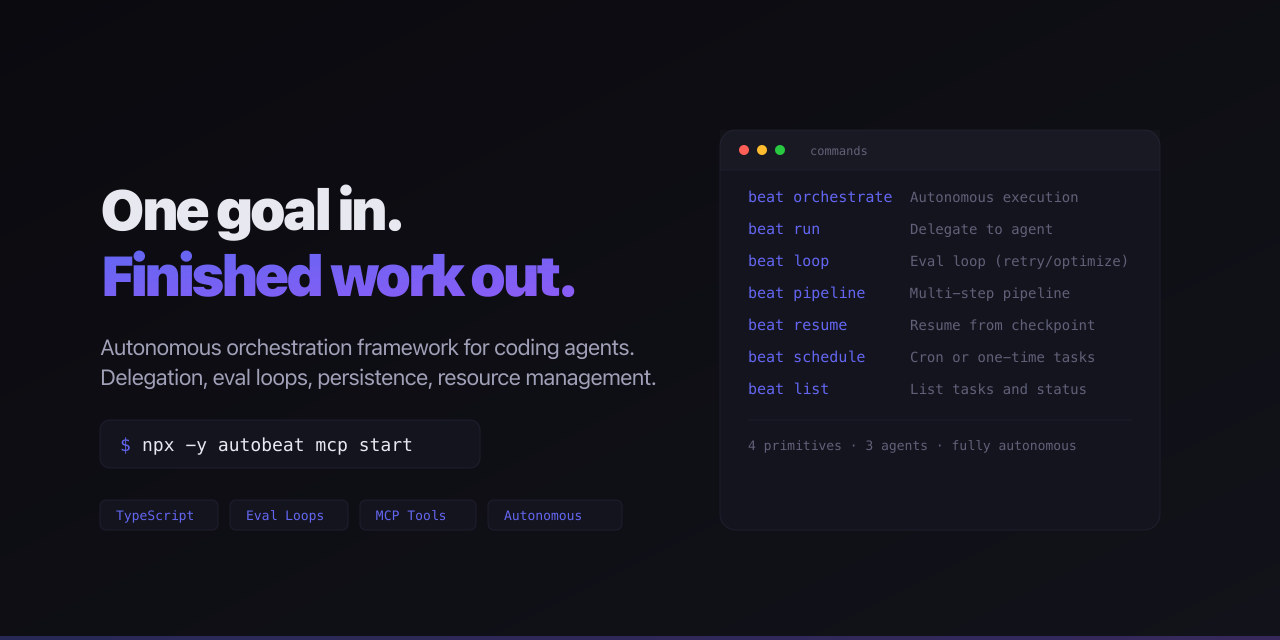
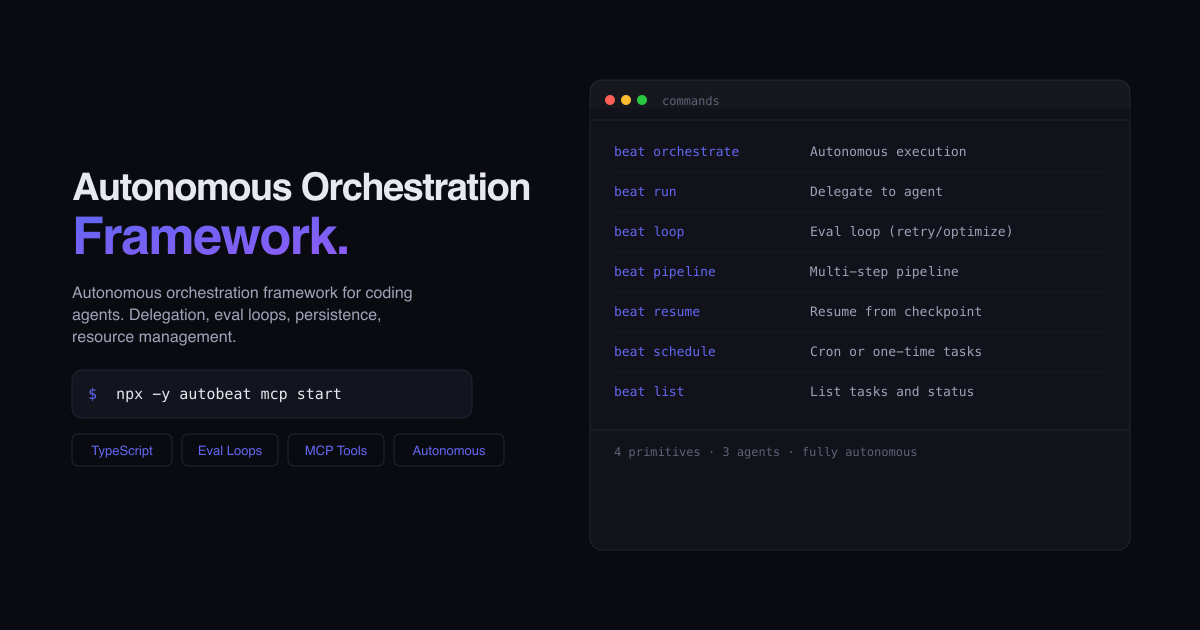
feat: refine Autobeat landing page, add shared FeatureCards component
- Hero: "Autonomous Orchestration Framework." with loops-all-the-way-down subtitle
- Stats: replace zero-config with "1 cmd / Full Orchestration"
- Features section titled "One Goal, Finished Work Out" with full 9-card BentoGrid
- Remove em dashes from all content
- Update meta tags, tagline, and social preview (og.png)
- Add reusable FeatureCards shared component (2/3/4 column equal-weight grid)

diff --git a/sites/autobeat/src/data.ts b/sites/autobeat/src/data.ts
@@ -8,7 +8,7 @@ export const meta = {
   github: 'https://github.com/dean0x/autobeat',
 } as const;
 
-export const brandTagline = 'Autonomous coding agent orchestration';
+export const brandTagline = 'Autonomous orchestration framework for coding agents';
 
 export const projectLinks = [
   { label: 'GitHub', href: 'https://github.com/dean0x/autobeat' },
@@ -23,18 +23,18 @@ export const navLinks = [
 
 export const stats = [
   { value: '4', label: 'Composable Primitives' },
-  { value: '3', label: 'Agents' },
-  { value: '0 config', label: 'Zero Setup' },
+  { value: '3', label: 'Agent Backends' },
+  { value: '1 cmd', label: 'Full Orchestration' },
 ];
 
 export const ctaTitle = 'Ready for autonomous orchestration?';
 
 export const heroData = {
   badge: 'Open Source · MIT License',
-  title: 'One goal in.',
-  titleAccent: 'Finished work out.',
+  title: 'Autonomous Orchestration',
+  titleAccent: 'Framework.',
   subtitle:
-    'Autonomous orchestration framework for coding agents. Four composable primitives — delegation, eval loops, persistence, resource management. The orchestrator breaks down goals, spawns workers, handles failures, and iterates until everything passes.',
+    'Loops all the way down. The orchestrator runs in a continuous loop, breaking goals into tasks, spawning workers, evaluating results, iterating until done. Each worker runs its own eval loop, retrying until tests pass or metrics converge.',
   actions: [
     { label: 'Get Started', href: '#commands', variant: 'primary' as const },
     { label: 'GitHub', href: 'https://github.com/dean0x/autobeat', variant: 'secondary' as const },
@@ -57,13 +57,13 @@ export const features: BentoItemProps[] = [
   {
     icon: Send,
     title: 'Task Delegation',
-    desc: 'Spawn background coding agents with dependency ordering — fire-and-forget or foreground streaming.',
+    desc: 'Spawn background coding agents with dependency ordering. Fire-and-forget or foreground streaming.',
     size: 'sm',
   },
   {
     icon: Cpu,
     title: 'Resource Management',
-    desc: 'Autoscaling workers based on CPU and memory — maintains 20% headroom automatically.',
+    desc: 'Autoscaling workers based on CPU and memory. Maintains 20% headroom automatically.',
     size: 'sm',
   },
   {
@@ -93,7 +93,7 @@ export const features: BentoItemProps[] = [
   {
     icon: Zap,
     title: 'Multi-Agent Support',
-    desc: 'Claude, Codex, or Gemini per task. The framework provides the primitives — the agent does the rest.',
+    desc: 'Claude, Codex, or Gemini per task. The framework provides the primitives, the agent does the rest.',
     size: 'sm',
   },
 ];
@@ -104,7 +104,7 @@ export const mcpToolColumns = [
 ];
 
 export const mcpToolRows = [
-  { tool: 'Orchestrate', desc: 'Autonomous goal execution — breaks down goals, spawns workers, iterates until done' },
+  { tool: 'Orchestrate', desc: 'Autonomous goal execution. Breaks down goals, spawns workers, iterates until done' },
   { tool: 'OrchestrationStatus', desc: 'Orchestration plan, steps, and iteration state' },
   { tool: 'ListOrchestrations', desc: 'List orchestrations with status filter' },
   { tool: 'CancelOrchestration', desc: 'Cancel an orchestration and its workers' },
@@ -114,7 +114,7 @@ export const mcpToolRows = [
   { tool: 'CancelTask', desc: 'Cancel a running task with resource cleanup' },
   { tool: 'RetryTask', desc: 'Retry a failed or completed task' },
   { tool: 'ResumeTask', desc: 'Resume a task from its checkpoint with optional additional context' },
-  { tool: 'CreateLoop', desc: 'Iterative eval loop — retry until pass, or optimize until convergence' },
+  { tool: 'CreateLoop', desc: 'Iterative eval loop. Retry until pass, or optimize until convergence' },
   { tool: 'LoopStatus', desc: 'Loop details and iteration history' },
   { tool: 'ListLoops', desc: 'List loops with status filter' },
   { tool: 'CancelLoop', desc: 'Cancel an active loop' },
@@ -166,7 +166,7 @@ export const commandRows = [
   { cmd: 'beat cancel', desc: 'Cancel a running task', example: 'beat cancel task_a1b2' },
   { cmd: 'beat resume', desc: 'Resume a failed task from checkpoint', example: 'beat resume task_a1b2' },
   { cmd: 'beat schedule', desc: 'Create cron or one-time scheduled tasks', example: 'beat schedule create --cron "0 2 * * *"' },
-  { cmd: 'beat init', desc: 'Interactive setup \u2014 detects installed agents', example: 'beat init' },
+  { cmd: 'beat init', desc: 'Interactive setup, detects installed agents', example: 'beat init' },
   { cmd: 'beat config', desc: 'Show or set configuration', example: 'beat config show' },
 ];
 

diff --git a/sites/autobeat/index.html b/sites/autobeat/index.html
@@ -3,20 +3,20 @@
   <head>
     <meta charset="UTF-8" />
     <meta name="viewport" content="width=device-width, initial-scale=1.0" />
-    <title>Autobeat — Autonomous Coding Agent Orchestration</title>
+    <title>Autobeat — Autonomous Orchestration Framework</title>
     <link rel="icon" type="image/svg+xml" href="./favicon.svg" />
     <meta name="theme-color" content="#0a0a0f" />
-    <meta name="description" content="One goal in. Finished work out. Autonomous orchestration framework for coding agents with delegation, eval loops, persistence, and resource management." />
+    <meta name="description" content="Autonomous orchestration framework for coding agents. Loops all the way down — delegation, eval loops, persistence, and resource management." />
     <meta property="og:type" content="website" />
     <meta property="og:url" content="https://dean0x.github.io/x/autobeat/" />
-    <meta property="og:title" content="Autobeat — Autonomous Coding Agent Orchestration" />
-    <meta property="og:description" content="One goal in. Finished work out. Autonomous orchestration framework for coding agents with delegation, eval loops, persistence, and resource management." />
+    <meta property="og:title" content="Autobeat — Autonomous Orchestration Framework" />
+    <meta property="og:description" content="Autonomous orchestration framework for coding agents. Loops all the way down — delegation, eval loops, persistence, and resource management." />
     <meta property="og:image" content="https://dean0x.github.io/x/autobeat/og.png" />
     <meta property="og:image:width" content="1280" />
     <meta property="og:image:height" content="640" />
     <meta name="twitter:card" content="summary_large_image" />
-    <meta name="twitter:title" content="Autobeat — Autonomous Coding Agent Orchestration" />
-    <meta name="twitter:description" content="One goal in. Finished work out. Autonomous orchestration framework for coding agents with delegation, eval loops, persistence, and resource management." />
+    <meta name="twitter:title" content="Autobeat — Autonomous Orchestration Framework" />
+    <meta name="twitter:description" content="Autonomous orchestration framework for coding agents. Loops all the way down — delegation, eval loops, persistence, and resource management." />
     <meta name="twitter:image" content="https://dean0x.github.io/x/autobeat/og.png" />
   </head>
   <body>

diff --git a/packages/shared/src/styles/global.css b/packages/shared/src/styles/global.css
@@ -204,6 +204,78 @@ h1, h2, h3, h4, h5, h6 {
   .bento-item-md, .bento-item-lg, .bento-item-xl { grid-column: span 1; }
 }
 
+/* ── Feature Cards ── */
+.feature-cards {
+  display: grid;
+  gap: 16px;
+}
+
+.feature-cards-2 { grid-template-columns: repeat(2, 1fr); }
+.feature-cards-3 { grid-template-columns: repeat(3, 1fr); }
+.feature-cards-4 { grid-template-columns: repeat(4, 1fr); }
+
+.feature-card {
+  position: relative;
+  background: var(--bg-card);
+  border: 1px solid var(--border);
+  border-radius: var(--radius-lg);
+  padding: 28px;
+  transition: border-color var(--transition-fast), transform var(--transition-fast);
+  overflow: hidden;
+}
+
+.feature-card::before {
+  content: '';
+  position: absolute;
+  inset: 0;
+  border-radius: inherit;
+  background: radial-gradient(
+    600px circle at var(--mouse-x, 50%) var(--mouse-y, 50%),
+    rgb(from var(--accent) r g b / 0.1),
+    transparent 40%
+  );
+  opacity: 0;
+  transition: opacity 0.3s;
+  pointer-events: none;
+  z-index: 1;
+}
+
+.feature-card[data-hovering]::before {
+  opacity: 1;
+}
+
+.feature-card:hover {
+  border-color: var(--border-hover);
+  transform: translateY(-2px);
+}
+
+.feature-card-icon {
+  color: var(--accent);
+  display: flex;
+  align-items: center;
+  margin-bottom: 16px;
+}
+
+.feature-card-title {
+  font-size: 1.05rem;
+  font-weight: 600;
+  margin-bottom: 10px;
+}
+
+.feature-card-desc {
+  font-size: 0.875rem;
+  color: var(--text-secondary);
+  line-height: 1.6;
+}
+
+@media (max-width: 768px) {
+  .feature-cards-3, .feature-cards-4 { grid-template-columns: repeat(2, 1fr); }
+}
+
+@media (max-width: 640px) {
+  .feature-cards-2, .feature-cards-3, .feature-cards-4 { grid-template-columns: 1fr; }
+}
+
 /* ── Utility ── */
 .gradient-text {
   background: linear-gradient(135deg, var(--accent), var(--accent-secondary));

diff --git a/packages/shared/src/components/FeatureCards.tsx b/packages/shared/src/components/FeatureCards.tsx
@@ -1,0 +1,48 @@
+import { useCallback, type MouseEvent } from 'react';
+import type { LucideIcon } from 'lucide-react';
+
+export interface FeatureCardItem {
+  icon?: LucideIcon;
+  title: string;
+  desc: string;
+}
+
+interface FeatureCardsProps {
+  items: FeatureCardItem[];
+  columns?: 2 | 3 | 4;
+}
+
+export function FeatureCards({ items, columns = 2 }: FeatureCardsProps) {
+  const handleMouseMove = useCallback((e: MouseEvent<HTMLDivElement>) => {
+    const card = e.currentTarget;
+    const rect = card.getBoundingClientRect();
+    card.style.setProperty('--mouse-x', `${e.clientX - rect.left}px`);
+    card.style.setProperty('--mouse-y', `${e.clientY - rect.top}px`);
+    card.setAttribute('data-hovering', '');
+  }, []);
+
+  const handleMouseLeave = useCallback((e: MouseEvent<HTMLDivElement>) => {
+    e.currentTarget.removeAttribute('data-hovering');
+  }, []);
+
+  return (
+    <div className={`feature-cards feature-cards-${columns}`}>
+      {items.map((item, idx) => (
+        <div
+          key={idx}
+          className={`feature-card animate-in delay-${(idx % 3) + 1}`}
+          onMouseMove={handleMouseMove}
+          onMouseLeave={handleMouseLeave}
+        >
+          {item.icon && (
+            <div className="feature-card-icon">
+              <item.icon size={28} />
+            </div>
+          )}
+          <h3 className="feature-card-title">{item.title}</h3>
+          <p className="feature-card-desc">{item.desc}</p>
+        </div>
+      ))}
+    </div>
+  );
+}

diff --git a/packages/shared/src/index.ts b/packages/shared/src/index.ts
@@ -8,3 +8,5 @@ export { DataTable } from './components/DataTable';
 export { AnimatedTerminal } from './components/AnimatedTerminal';
 export { ClosingCTA } from './components/ClosingCTA';
 export { StatsBar } from './components/StatsBar';
+export { FeatureCards } from './components/FeatureCards';
+export type { FeatureCardItem } from './components/FeatureCards';

diff --git a/sites/autobeat/src/App.tsx b/sites/autobeat/src/App.tsx
@@ -53,7 +53,7 @@ export function App() {
 
       <div className="section-divider" />
 
-      <Section id="features" title="Four primitives, infinite compositions" variant="alt">
+      <Section id="features" title="One Goal, Finished Work Out" variant="alt">
         <div className="animate-in">
           <BentoGrid items={features} />
         </div>
